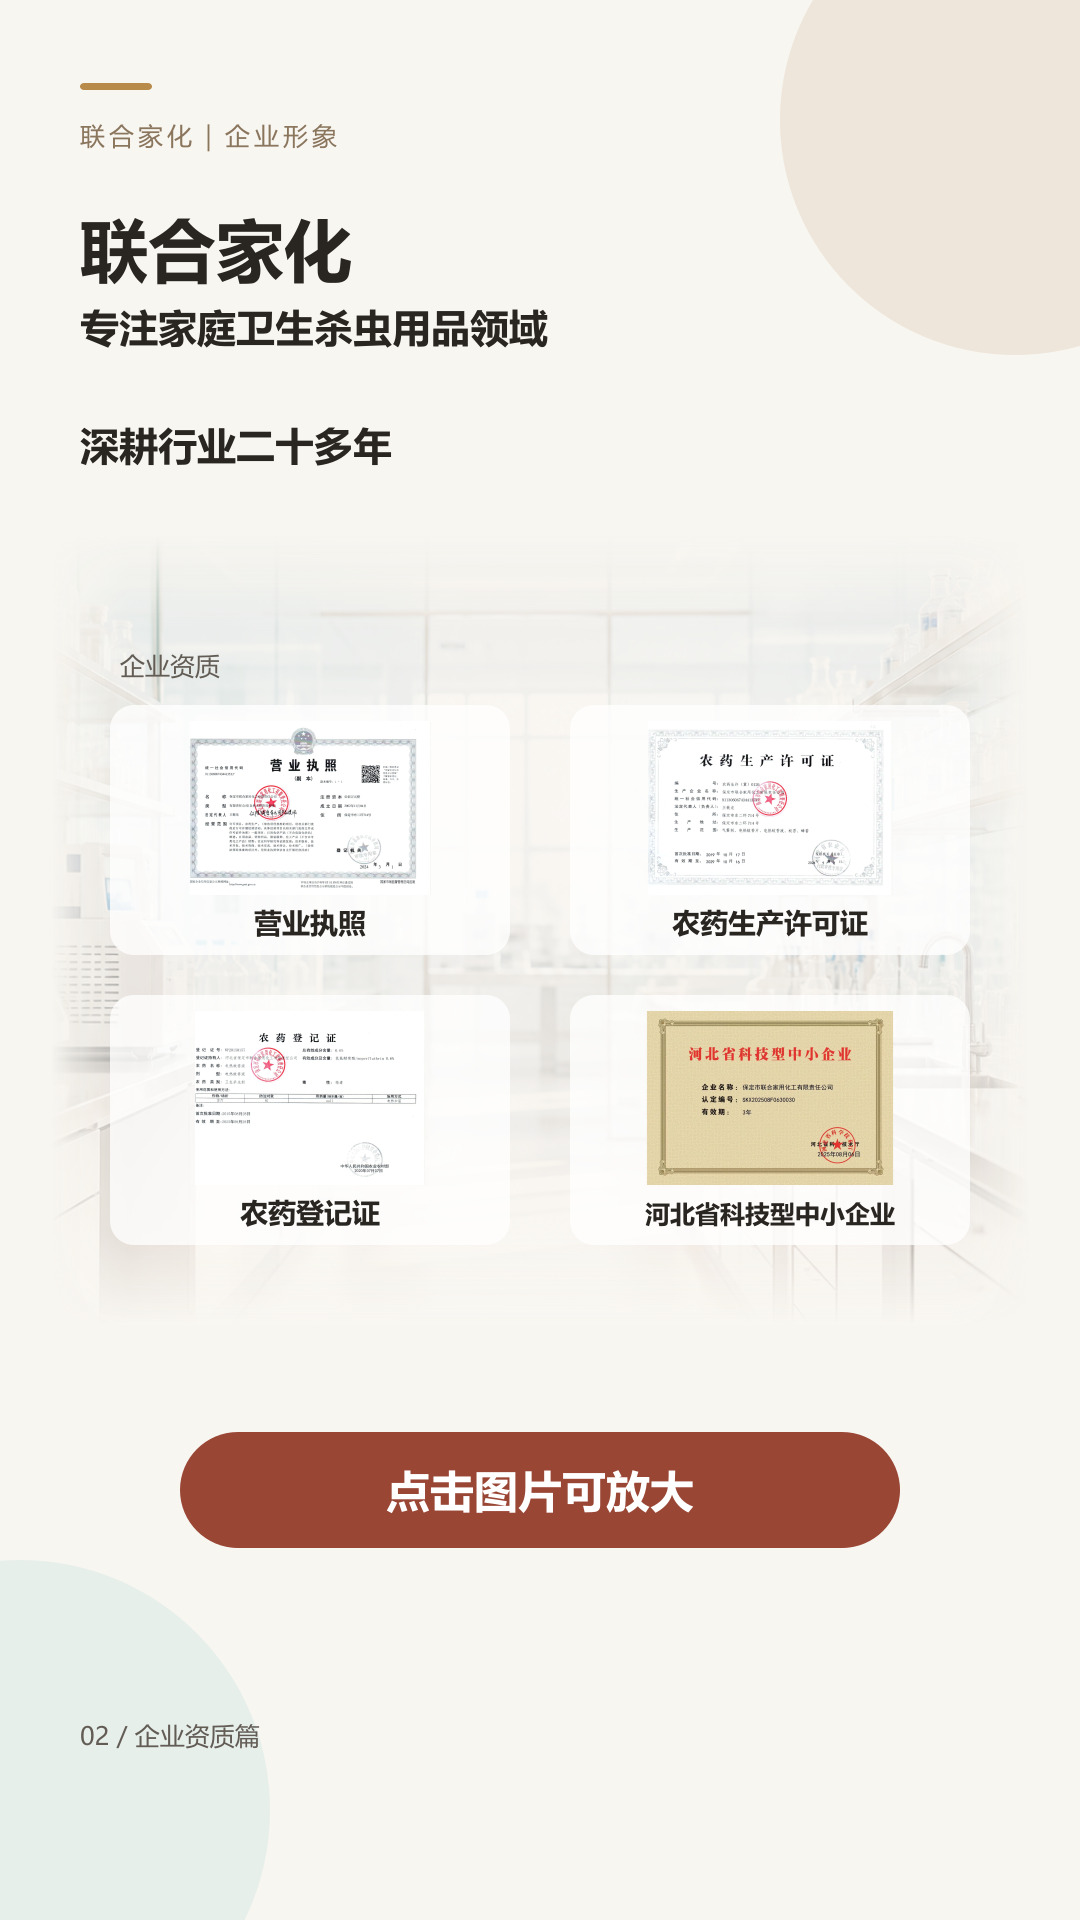
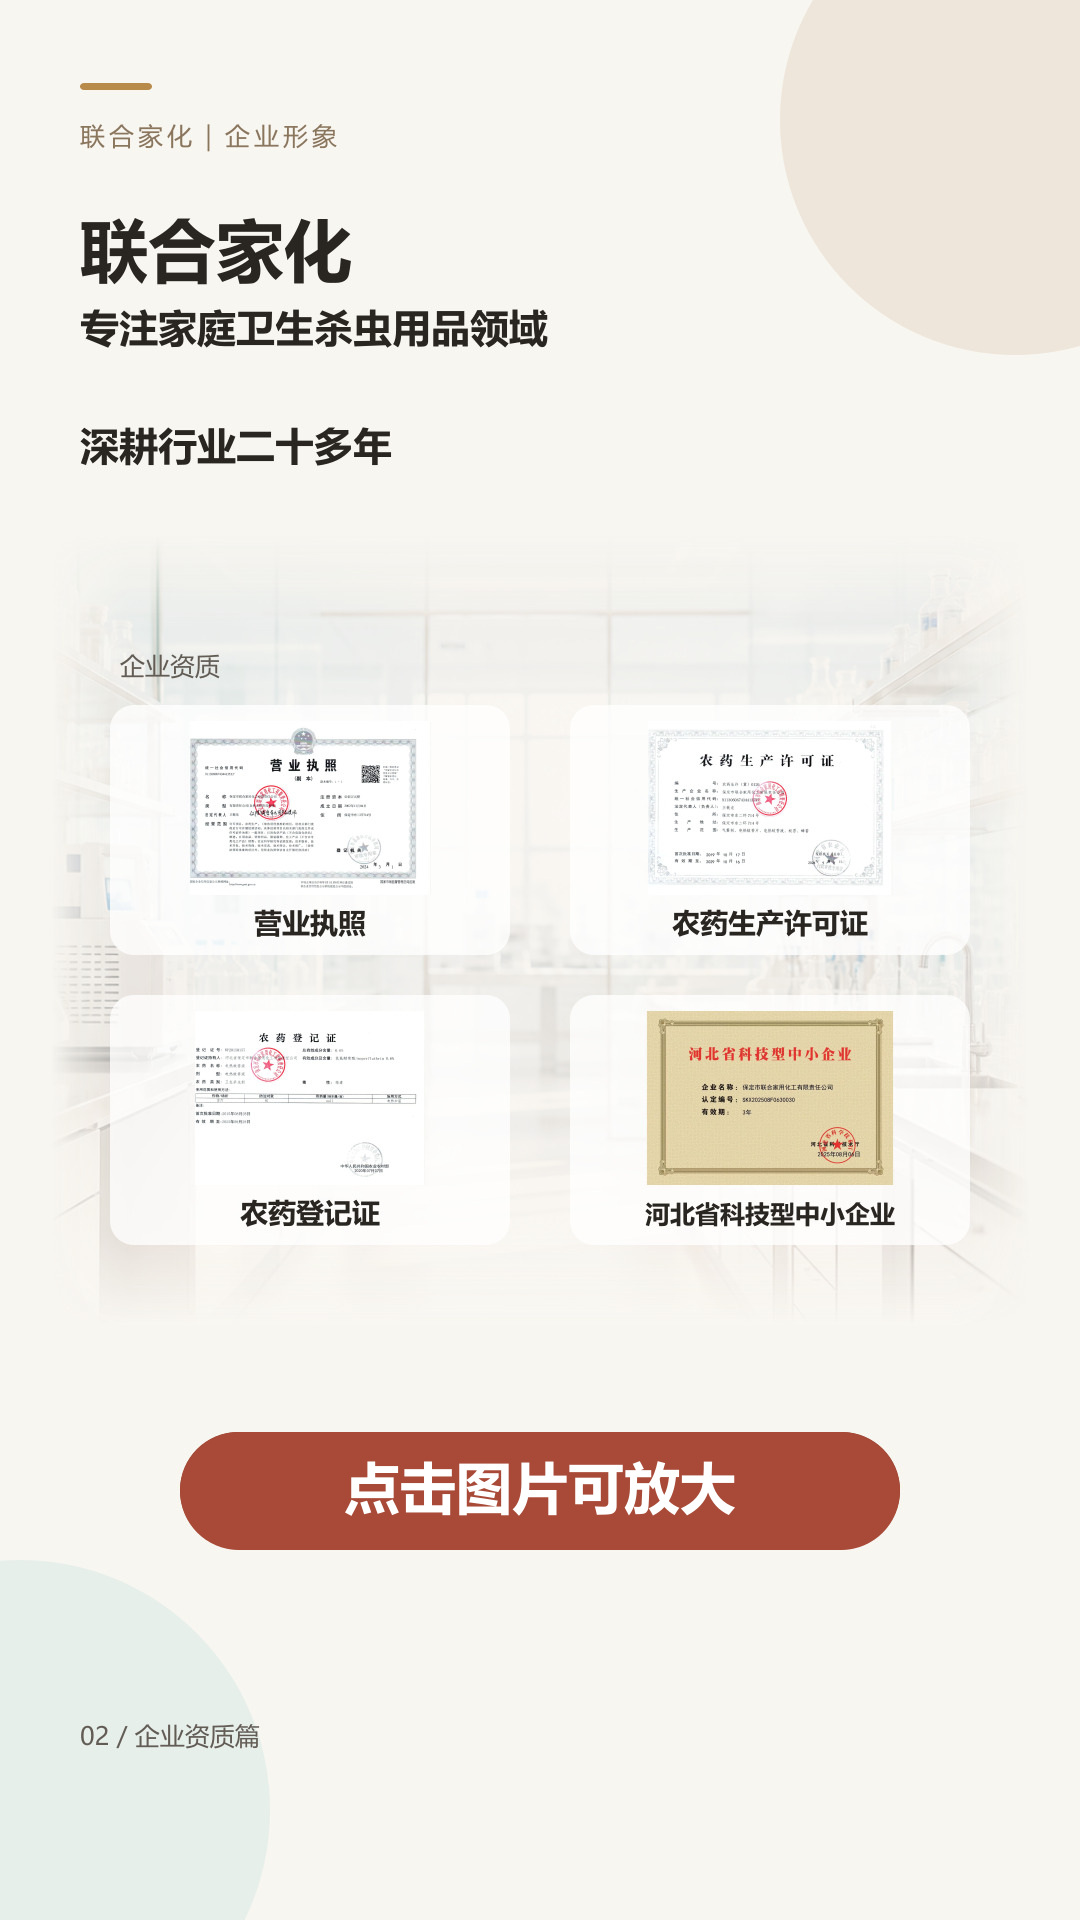
调整十四十五页顺序并优化提示文字

Changed region(s): [[0.3056, 0.75, 0.6722, 0.8125]]

diff --git a/style.css b/style.css
@@ -4,3 +4,4 @@
 .product-hotspot{border:2px solid transparent}.product-hotspot:active{background:#fff2}.lightbox{position:fixed;z-index:100;inset:0;background:#17130fee;display:flex;align-items:center;justify-content:center;padding:64px 18px 72px}.lightbox[hidden]{display:none}.lightbox img{display:block;max-width:96vw;max-height:82vh;object-fit:contain;background:#fff;border-radius:14px;box-shadow:0 14px 50px #0008}.lightbox button{position:absolute;right:18px;top:18px;width:48px;height:48px;border:0;border-radius:50%;background:#fff;color:#26231f;font-size:34px;line-height:1}.lightbox div{position:absolute;bottom:24px;color:#fff;font-size:15px;font-weight:700}.modal-open{overflow:hidden}.cover-pulse,.market-pulse{position:absolute;z-index:4;border:0;background:transparent;color:#fff;font-weight:800;text-align:center;pointer-events:auto;animation:entryPulse 1.05s ease-in-out infinite;text-shadow:0 2px 5px #0006}.cover-pulse{left:16.7%;top:87.7%;width:66.6%;height:6%;font-size:clamp(20px,6vw,34px)}.market-pulse{left:16.7%;top:77.1%;width:66.6%;height:6%;font-size:clamp(19px,5.7vw,32px);pointer-events:none}.choose-product-tip{position:absolute;right:8%;bottom:7.5%;display:flex;flex-direction:column;align-items:center;color:#9A4635;text-shadow:0 1px 5px #fff}.choose-product-tip span{font-size:clamp(38px,11vw,62px);line-height:1}.choose-product-tip strong{font-size:clamp(20px,6vw,34px);white-space:nowrap}.product-zoom-tip{position:absolute;z-index:6;left:16.7%;top:83.1%;width:66.6%;height:6%;border-radius:999px;background:#9A4635;color:#fff;display:flex;align-items:center;justify-content:center;font-size:clamp(20px,6vw,34px);font-weight:800;box-shadow:0 5px 18px #5f211f35}
 .choose-product-tip{left:50%!important;right:auto!important;transform:translateX(-50%)!important;bottom:4.2%!important}
 .market-pulse{left:20%!important;width:60%!important;height:6%!important;display:flex!important;align-items:center!important;justify-content:center!important;font-size:clamp(17px,5vw,27px)!important;line-height:1.1!important;overflow:hidden!important;padding:0 10px!important}
+.market-pulse{left:16.7%!important;width:66.6%!important;display:flex!important;align-items:center!important;justify-content:center!important;font-size:clamp(19px,5.7vw,32px)!important;line-height:1!important;white-space:nowrap!important;overflow:hidden!important;padding:0 12px!important}

diff --git a/sw.js b/sw.js
@@ -1,1 +1,1 @@
-const C='topic6-v1-a79-p15-menu-clean';const CORE=['./','./index.html','./style.css','./manifest.webmanifest','./icon-192.png'];self.addEventListener('install',e=>e.waitUntil(caches.open(C).then(c=>c.addAll(CORE)).then(()=>self.skipWaiting())));self.addEventListener('activate',e=>e.waitUntil(caches.keys().then(keys=>Promise.all(keys.filter(k=>k!==C).map(k=>caches.delete(k)))).then(()=>self.clients.claim())));self.addEventListener('fetch',e=>e.respondWith(caches.match(e.request).then(r=>r||fetch(e.request).then(x=>{const y=x.clone();caches.open(C).then(c=>c.put(e.request,y));return x;}))));
+const C='topic6-v1-order-market-p02';const CORE=['./','./index.html','./style.css','./manifest.webmanifest','./icon-192.png'];self.addEventListener('install',e=>e.waitUntil(caches.open(C).then(c=>c.addAll(CORE)).then(()=>self.skipWaiting())));self.addEventListener('activate',e=>e.waitUntil(caches.keys().then(keys=>Promise.all(keys.filter(k=>k!==C).map(k=>caches.delete(k)))).then(()=>self.clients.claim())));self.addEventListener('fetch',e=>e.respondWith(caches.match(e.request).then(r=>r||fetch(e.request).then(x=>{const y=x.clone();caches.open(C).then(c=>c.put(e.request,y));return x;}))));

diff --git a/index.html b/index.html
@@ -45,8 +45,8 @@ const pages = [
   {id:"JZ-P004",title:"电热蚊香液系列（二）",section:"健字",src:"pages/JZ-P004.jpg"},
   {id:"JZ-P005",title:"电热蚊香片系列",section:"健字",src:"pages/JZ-P005.jpg"},
   {id:"JZ-P007",title:"盘式蚊香系列",section:"健字",src:"pages/JZ-P007.jpg"},
-  {id:"SEC-YJ",title:"鹰剑产品专区",section:"鹰剑",src:"pages/SEC-YJ.jpg"},
   {id:"JZ-P009",title:"纸竹纤维蚊香",section:"健字",src:"pages/JZ-P009.jpg"},
+  {id:"SEC-YJ",title:"鹰剑产品专区",section:"鹰剑",src:"pages/SEC-YJ.jpg"},
   {id:"YJ-P001",title:"电热驱蚊系列",section:"鹰剑",src:"pages/YJ-P001.jpg"},
   {id:"YJ-P002",title:"超大盘宝宝方塑蚊香",section:"鹰剑",src:"pages/YJ-P002.jpg"},
   {id:"YJ-P003",title:"气雾剂系列（一）",section:"鹰剑",src:"pages/YJ-P003.jpg"},
